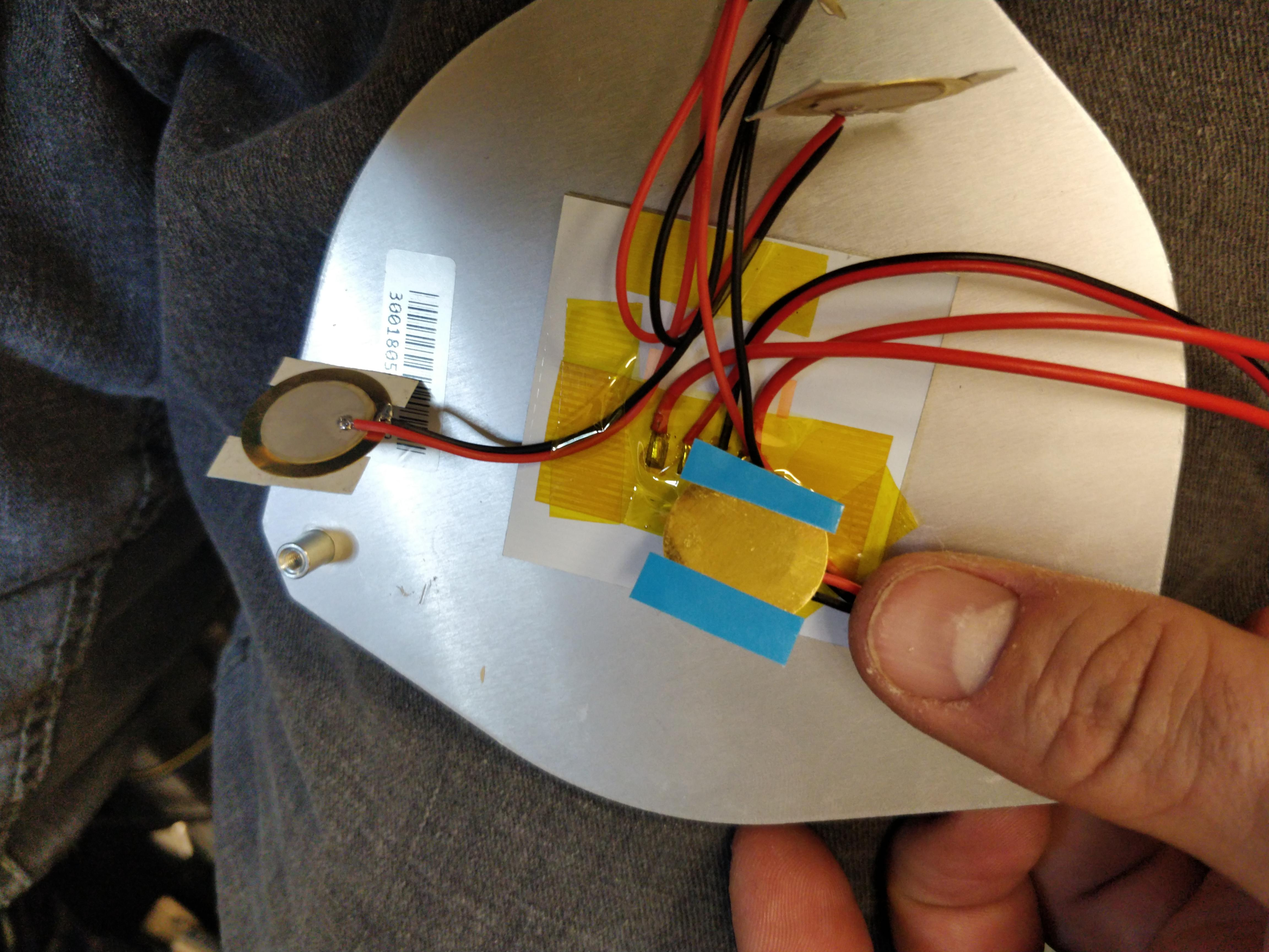
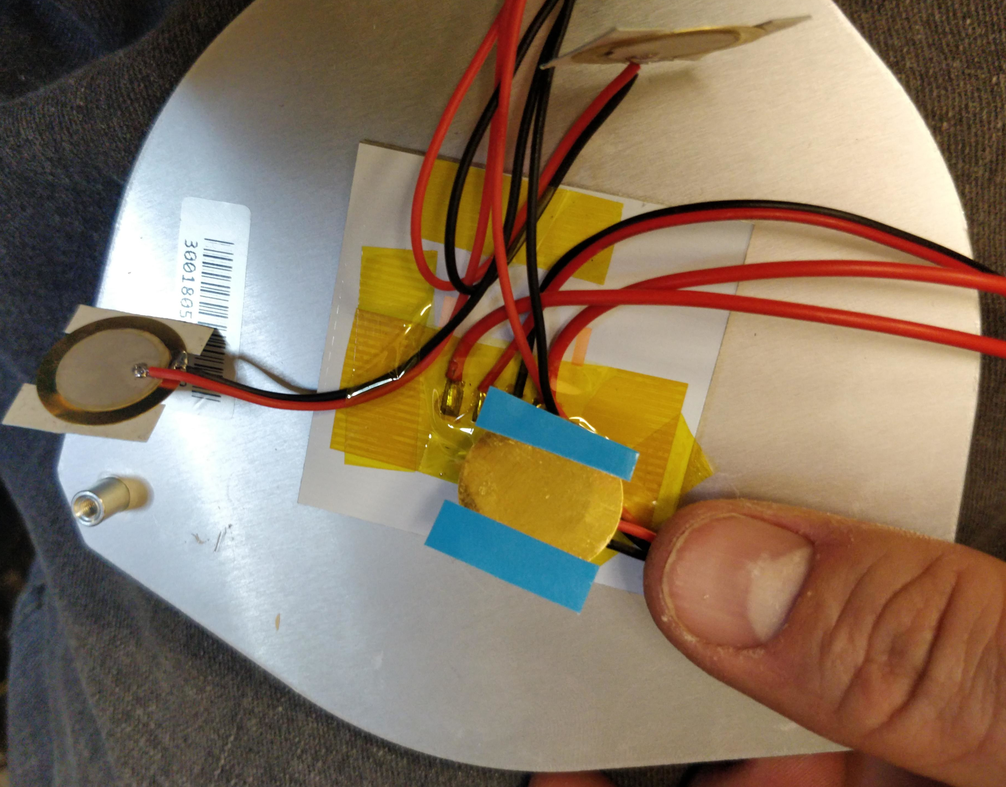
Added installation tutorial for MPDM #docs

diff --git a/docs/tutorials/wiring/easy-piezi/monoprice-delta-mini.md b/docs/tutorials/wiring/easy-piezi/monoprice-delta-mini.md
@@ -1,0 +1,73 @@
+# Monoprice Delta Mini Installation Guide
+
+## Kit Contents
+
+- 1x Pyr0-Piezo Easy-Piezi Board
+- 1x MPDM Cable Harness
+- 1x 20mm Piezo Array with adhesive tape
+
+---
+
+## Installing the Piezo Array
+
+1. Remove the six M3 screws securing the bottom cover of the printer, and move the cover to the side.
+2. Unplug the fan attached to the bottom cover (This is the Controller Fan).
+3. Find and unplug the two cables that go through the hole in the center of the printer's baseplate. These are attached to the heated bed.
+4. Rotate the three levers holding the heated bed corners to the side. This will release the heated bed, and allow you to lift the bed off the printer's base. Make sure not to tangle the heater wire's clip in other wires while pulling the bed out.
+5. Place the bed top down on a flat surface.
+6. One at a time, peel the blue film off the adhesive strip for one piezo disk, and stick it to the bottom of the bed next to one of the posts at each corner of the bed. Make sure to orient the wires so that they are pointed at the center of the bed. Try to place the disk as close to the post as possible without allowing them to touch. Repeat this process for each of the three piezo disks.
+![](../../../assets/images/mp-delta-mini-ub/1.jpg)
+![](../../../assets/images/mp-delta-mini-ub/2.jpg)
+7. (Optional) Using some Kapton tape or other heat resistant adhesive, stick the three wires from the disks to the center of the bed heater. This will make it easier to keep the cables from getting snarled later.
+![](../../../assets/images/mp-delta-mini-ub/3.jpg)
+8. Route the wires from the bed back through the hole in the base of the printer, and place the bed back on it's posts. Then rotate the retaining levers back into place. While performing this action, make sure the wires do not become trapped between the bed and the base, but instead hang freely on the inside compartment of the printer.
+9. Plug the bed's cables back into the controller, and allow the piezo array cable to hang free for now
+
+## Installing the Easy-Piezi Sensor
+
+1. Disconnect all three Blue/Red wires from the three connectors on the left side of the board (Far side away from the heatsink)
+2. Connect the 6-pin connector of the wiring harness (only 3 pins have wires), to the Easy Piezi main connector
+![](../../../assets/images/mp-delta-mini-ub/MPDM-Wiring-Harness.png)
+3. Connect the 2-pin connector from the Piezo Array to the PZ1 2-pin connector on the long side of the Easy-Piezi board
+4. Connect the 3-Pin wire from the cable harness to any one of the three now empty connectors from the first step (depicted in Red below)
+5. Connect the 2-Pin Power Connector (depicted in Green below) to the Controller Fan header (also depicted in Green below)
+![](../../../assets/images/mp-delta-mini-ub/MPDM-Board-Connections.png)
+6. Tuck the sensor behind the cables to keep it out of the way of the fan.
+7. Connect the Controller fan (attached to the base cover) to the Fan Header on the wiring harness (depicted in Blue below).
+![](../../../assets/images/mp-delta-mini-ub/MPDM-Installed.png)
+8. Re-install the base cover and use the six M3 bolts to secure it.
+
+## Utilizing the Easy-Piezi
+
+### Recommended Pyr0-Piezo settings
+
+```GCODE
+GAIN_F 2 ;(4.33x)
+VFOL 900
+VCOMP 1900
+LOOP_D 50
+TRG_D 100
+HYST 20
+LOGIC 0
+PZDET 0
+```
+
+### G-Code Startup Scripts
+
+By default, most of the slicer profiles available for this printer use a minimal bed leveling approach, using only four test points. As this sensor has enhanced capabilities compared with the default switches, it is beneficial to use a higher number of probe points. This can be done witout modifying the printer's firmware, by simply changing the startup bed leveling command:
+
+```GCODE
+; Original:
+G29
+
+; Recommended:
+G29 P5
+```
+
+### Update Web Interface
+
+An enhanced web interface is available from GitHub user [nokemono42](https://github.com/nokemono42) that incorporates all of the available probe density options.
+
+![](https://raw.githubusercontent.com/nokemono42/MP-Mini-Delta-Web/master/images/screenshot.png)
+
+This can be installed by following the instructions found on the [Github Project Page](https://github.com/nokemono42/MP-Mini-Delta-Web)

diff --git a/docs/installation.md b/docs/installation.md
@@ -1,27 +1,33 @@
-Pyr0-Piezo Installation Instructions
------------------------------
+# Pyr0-Piezo Installation Instructions
 
 ***Important***: Every printer is different, and this sensor can be adapted to any of them, however we may not currently have a mount designed for your needs. If that's the case, please [open an issue on the github](https://github.com/pyr0ball/pyr0piezo/issues/new?assignees=pyr0ball&labels=add+support+request&template=printer-mount-request.md&title=%5BMOUNT%5D) and/or send us a ping on the discord server.
 
-#### Choosing your mounting scheme
+## Fully Supported Printers
+
+- [Monoprice Delta Mini](tutorials/wiring/easy-piezi/monoprice-delta-mini.md)
+  - ![](assets/images/mp-delta-mini-ub/pmdm-product.jpg)
+
+## Getting Support for your printer
+
+### Choosing your mounting scheme
 *First, follow the instructions for physically installing your Pyro-Piezo on the printer you're using:*
 
 - Creality:
-    - [CR-10 / Ender 3](mounts/creality/creality-original-head.md)
+  - [CR-10 / Ender 3](mounts/creality/creality-original-head.md)
 - Prusa / Mendel
-    - [Prusa i3 on Head](mounts/prusa-mendel/i3-on-head.md)
-    - [Mendel on Head](mounts/mendel/mendel-on-head.md) | [Mendel Gantry Mount](mounts/mendel/mendel-gantry-mount.md)
+  - [Prusa i3 on Head](mounts/prusa-mendel/i3-on-head.md)
+  - [Mendel on Head](mounts/mendel/mendel-on-head.md) | [Mendel Gantry Mount](mounts/mendel/mendel-gantry-mount.md)
 - Ultimaker Kinematics
-    - [Ultimaker Under Bed](mounts/quadrap/um-under-bed.md)
-    - [Makerbot Under Bed](mounts/quadrap/makerbot-under-bed.md)
+  - [Ultimaker Under Bed](mounts/quadrap/um-under-bed.md)
+  - [Makerbot Under Bed](mounts/quadrap/makerbot-under-bed.md)
 - Core-XY
-    - [Hypercube Evo on Head](mounts/core-xy/hevo-on-head.md)
+  - [Hypercube Evo on Head](mounts/core-xy/hevo-on-head.md)
 - Delta
-    - [Monoprice Delta Mini](mounts/delta/delta-under-bed.md)
-    - [Folgertech Delta](mounts/delta/delta-head.md)
+  - [Monoprice Delta Mini](mounts/delta/delta-under-bed.md)
+  - [Folgertech Delta](mounts/delta/delta-head.md)
 - Deltesian
-    - [Bornity's Deltesian](mounts/deltesian/deltesian.md)
+  - [Bornity's Deltesian](mounts/deltesian/deltesian.md)
 
-#### Configuring your Printer
+## Configuring your Printer/Firmware
 
 [Configuring Marlin to use Pyr0-Piezo](tutorials/config/printer-firmware/marlin/marlin-config.md)
